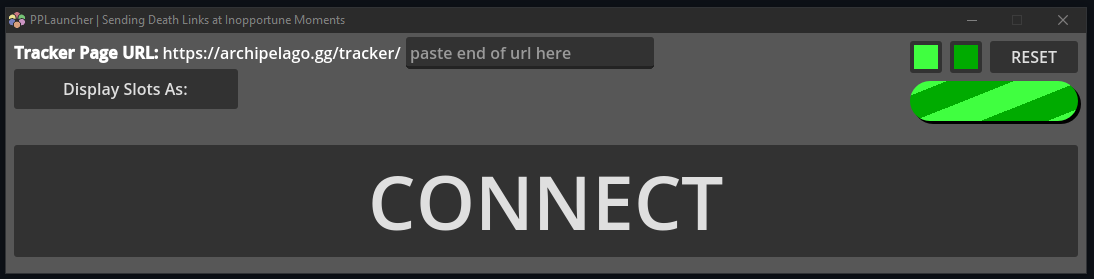
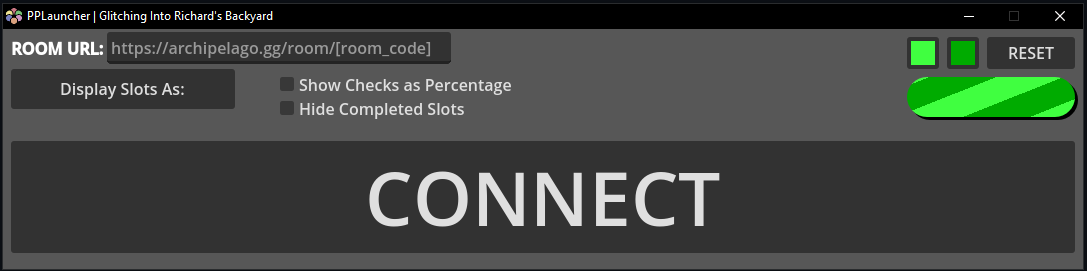
Update README

diff --git a/README.md b/README.md
@@ -1,5 +1,5 @@
 # Pretty Progress
-Connects to an Archipelago Multiworld Tracker and displays a progress bar in a transparent window. Intended for streamers.
+Connects to an Archipelago Multiworld Room and displays a progress bar in a transparent window. Intended for streamers.
 
 ![Pretty Progress window displaying a progress bar indicating 112/386 completed checks.](images/image_1.png)
 
@@ -15,22 +15,22 @@ This program does not connect to any player slots or do any sort of logic tracki
 
 - Customizable progress bar colours
 - Option to display slots as `player` names or `game` names
+- Toggle to show checks as fractions or percentages
+- Toggle to hide completed slots
 
 ## Usage
-Download the latest release from the [releases page](https://github.com/GirambQuamb/Archipelago-Pretty-Progress/releases), extract `Pretty_Progress_x.x.x.zip`, and run `Pretty Progress.exe`, ensuring it is in the same folder as `Pretty Progress.pck`.
+Download the latest release for your platform from the [releases page](https://github.com/GirambQuamb/Archipelago-Pretty-Progress/releases), extract `Pretty_Progress_x.x.x.zip`, and run the executable ensuring it is in the same folder as `Pretty Progress.pck`.
 
-This will launch the `PPLauncher` window, in which you can paste the end of a Multiworld Tracker URL, select whether you want to display `player` or `game` names, and customize the progress bar colours.
+This will launch the `PPLauncher` window, in which you can paste the URL of an Archipelago room and configure options.
 
 ![](images/image_2.png)
 
 Click the `CONNECT` button to launch the `Pretty Progress` window that displays the progress bar in a transparent window. To change settings or fix invalid URLs, first close the `Pretty Progress` window. Invalid URLs will prompt an error message.
 
-In OBS, the `Pretty Progress` window can be captured as a Game Capture source, and will be transparent as long as `Allow Transparency` is enabled. Window Capture works as well, but transparency is dependent on the `Capture Method` setting.
+In OBS, the `Pretty Progress` window can be captured as a Window Capture source, and will be transparent as long as the chosen `Capture Method` supports it. Game works as well with `Allow Transparency` enabled, but you may run into issues with it capturing the launcher window.
 
 ## Shortcomings & Planned Features
 
-- This program is currently Windows only. Linux is possible, but you will need to bug me. MacOS will not happen.
-- This program can only connect to Multiworld Tracker pages hosted on the official Archipelago website. Ensure the Room page is live before connecting.
 - Rooms with only one player slot will show the `Loading` text during the first transition cycle. This will fix itself in time for capture.
 - There is only [one font](https://not-jam.itch.io/not-jam-mono-clean-13) for progress display. I've not personally tested which characters are valid. Code is in place to add more options for fonts, including the possibility of a custom font.
 - No settings are saved, though colour palettes can be imported and exported from the color picker. Thanks, Godot!
